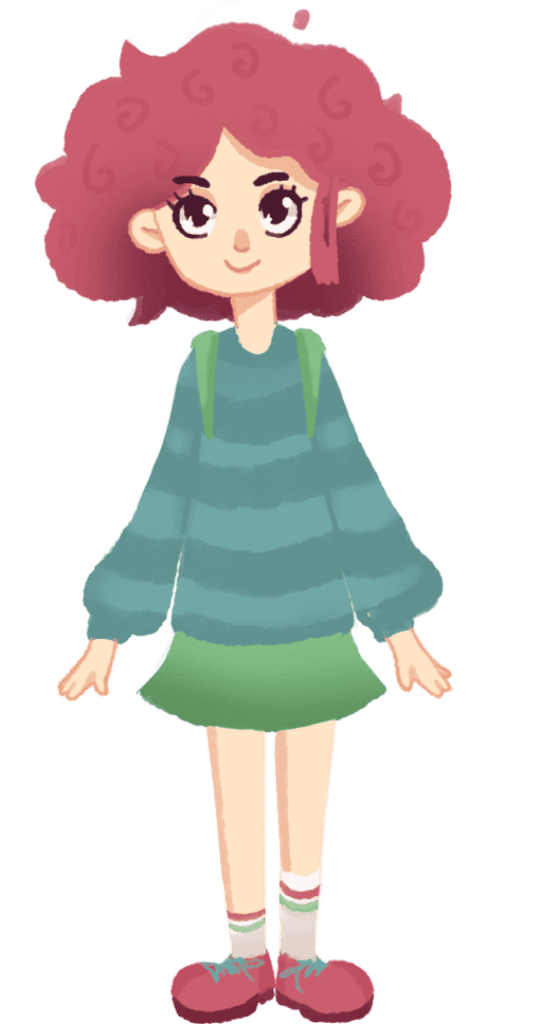
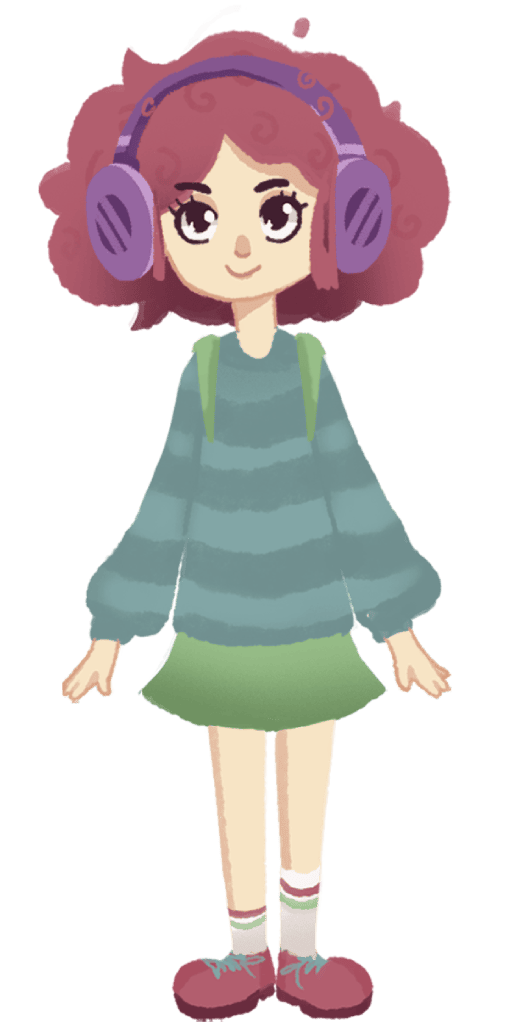
feat: added headphones anim

Changed region(s): [[0.0625, 0.0, 0.875, 1.0], [0.5625, 0.4688, 0.6562, 0.5312], [0.5, 0.5312, 0.5625, 0.5625]]

diff --git a/lib/game/components/player.dart b/lib/game/components/player.dart
@@ -14,6 +14,7 @@ class OlyaPlayer extends SpriteAnimationGroupComponent<PlayerState>
   late final SpriteAnimation _walkingAnimation;
   late final SpriteAnimation _standingHeadphonesAnimation;
   late final SpriteAnimation _walkingHeadphonesAnimation;
+  late final SpriteAnimation _wearingHeadphonesAnimation;
 
   final Vector2 _velocity = Vector2.zero();
   final Vector2 _keyboardVelocity = Vector2.zero();
@@ -41,9 +42,26 @@ class OlyaPlayer extends SpriteAnimationGroupComponent<PlayerState>
         for (int i = 1; i <= 29; i++)
           await game.loadSprite('player/walking_headphones_$i.png'),
       ], stepTime: 0.1);
+
+      try {
+        final wearingSprite = await game.loadSprite(
+          'player/olya_headphones_wearing.png',
+        );
+        final wearedSprite = await game.loadSprite(
+          'player/olya_headphones_weared.png',
+        );
+        _wearingHeadphonesAnimation = SpriteAnimation.spriteList(
+          [wearingSprite, wearedSprite],
+          stepTime: 0.12,
+          loop: false,
+        );
+      } catch (_) {
+        _wearingHeadphonesAnimation = _standingHeadphonesAnimation;
+      }
     } catch (_) {
       _standingHeadphonesAnimation = _standingAnimation;
       _walkingHeadphonesAnimation = _walkingAnimation;
+      _wearingHeadphonesAnimation = _standingAnimation;
     }
 
     _updateAnimations();
@@ -142,11 +160,44 @@ class OlyaPlayer extends SpriteAnimationGroupComponent<PlayerState>
   bool _hasHeadphones = false;
 
   void _updateAnimations() {
+    final prev = _hasHeadphones;
     final hasHeadphones = game.selectedTools.contains('headphones');
-    if (hasHeadphones == _hasHeadphones && animations != null) {
+    if (hasHeadphones == prev && animations != null) {
       return;
     }
     _hasHeadphones = hasHeadphones;
+
+    if (hasHeadphones && !prev) {
+      animations = {
+        PlayerState.standing: _wearingHeadphonesAnimation,
+        PlayerState.walking: _walkingHeadphonesAnimation,
+      };
+      if (current != null) current = current;
+
+      try {
+        final frameCount = _wearingHeadphonesAnimation.frames.length;
+        const stepMs = 320;
+        Future.delayed(
+          Duration(milliseconds: (frameCount * stepMs).toInt()),
+          () {
+            if (!game.selectedTools.contains('headphones')) return;
+            animations = {
+              PlayerState.standing: _standingHeadphonesAnimation,
+              PlayerState.walking: _walkingHeadphonesAnimation,
+            };
+            if (current != null) current = current;
+          },
+        );
+      } catch (_) {
+        animations = {
+          PlayerState.standing: _standingHeadphonesAnimation,
+          PlayerState.walking: _walkingHeadphonesAnimation,
+        };
+        if (current != null) current = current;
+      }
+
+      return;
+    }
 
     animations = {
       PlayerState.standing: hasHeadphones
